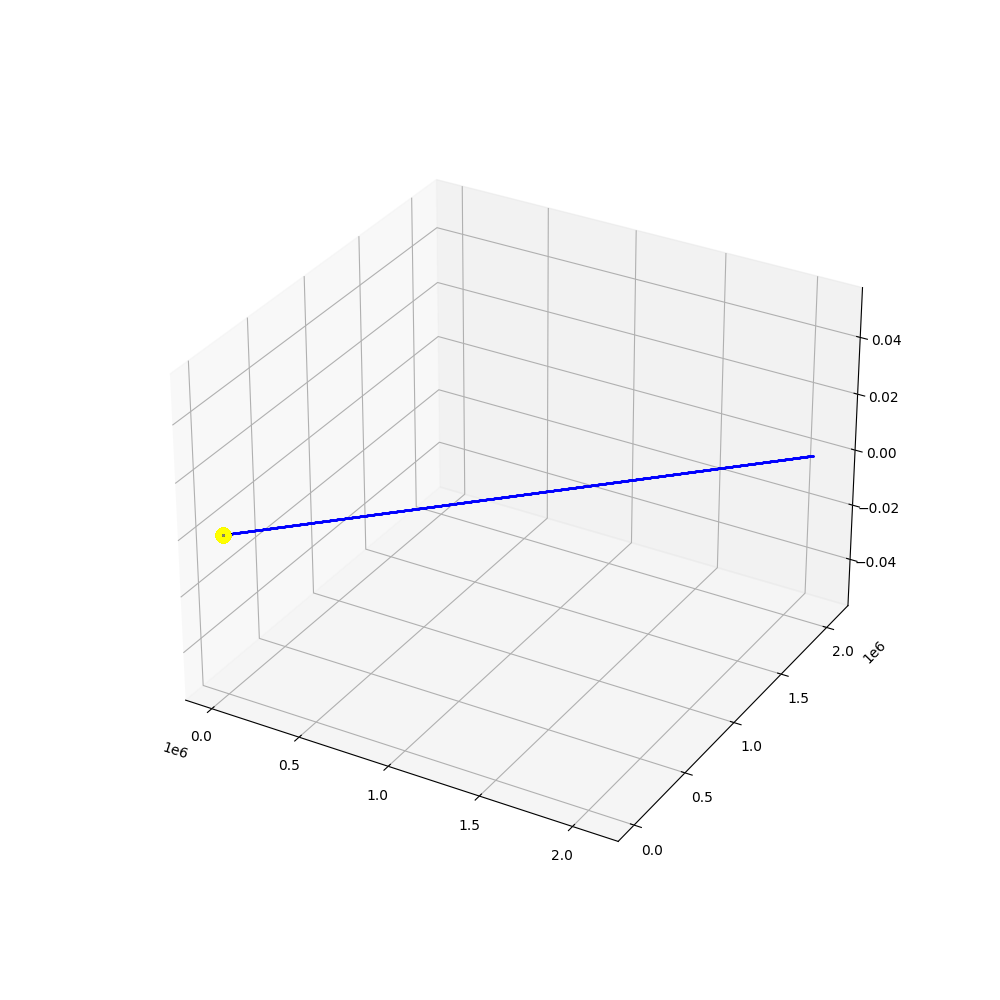
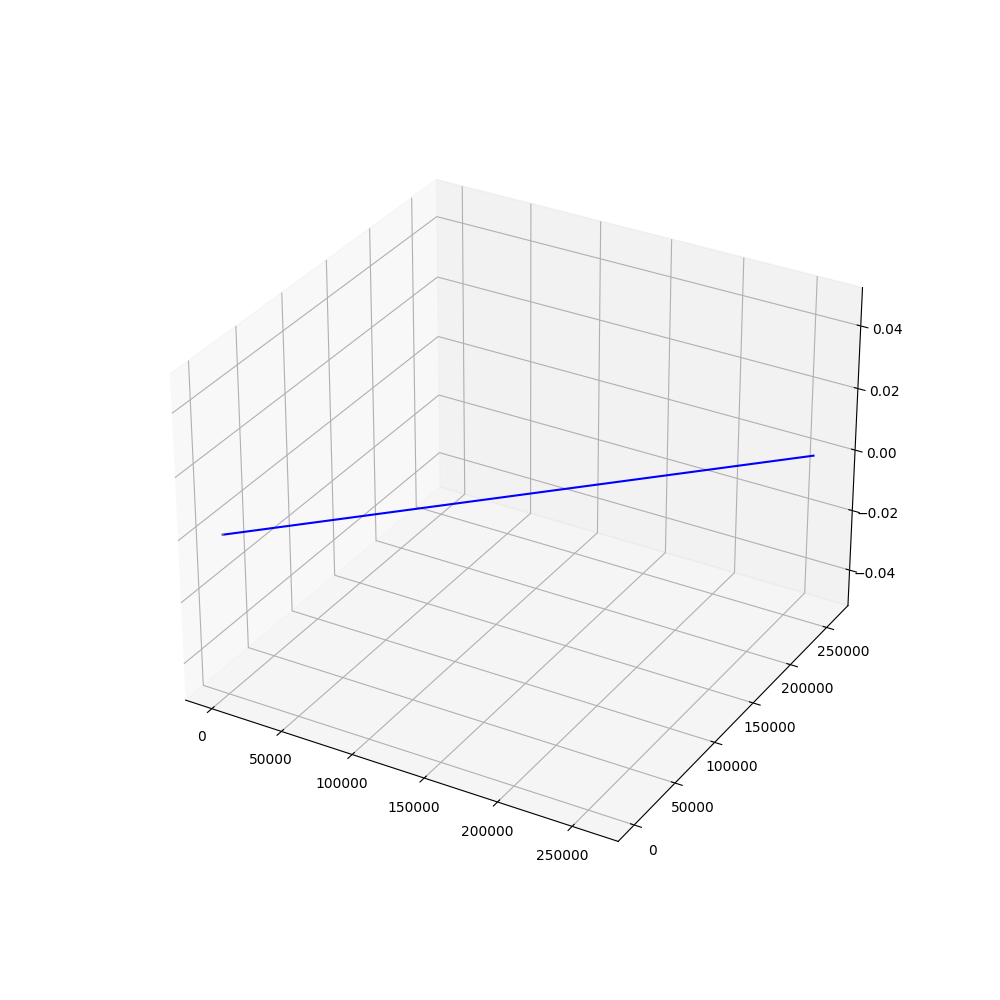
No results, starting tomorrow.

diff --git a/models/system.py b/models/system.py
@@ -1,7 +1,5 @@
 import matplotlib.pyplot as plt
 
-from models.planet import Planet
-
 
 class System:
     planets: list = []
@@ -11,18 +9,8 @@ class System:
     def __init__(self, planets: list, plot_size: tuple = (10, 10)):
         self.planets = planets
 
-        self.fig, self.ax = plt.subplots(
-            1,
-            1,
-            subplot_kw={"projection": "3d"},
-            figsize=plot_size,
-        )
-        self.fig.show()
-
     def step(self, dt: float):
         for planet in self.planets:
-            self.draw_planet(planet)
-
             if planet.fixed:
                 continue
 
@@ -30,50 +18,11 @@ class System:
                 if other is planet:
                     continue
 
-                distance = planet.position.distance(other.position)
+                distance = planet.current_position().distance(other.current_position())
                 force = planet.mass * other.mass / distance ** 2
 
-                direction = (other.position - planet.position) / distance
-
+                direction = (planet.current_position() - other.current_position()) / distance
+        
                 planet.velocity += direction * force / planet.mass * dt
 
-            planet.position += planet.velocity * dt
-
-        # self.draw_system()
-
-    def draw_planet(self, planet: Planet):
-        """
-        Draw a planet in the system
-        :param planet:
-        :return:
-        """
-
-        self.ax.scatter(
-            planet.position.x,
-            planet.position.y,
-            planet.position.z,
-            color=planet.color,
-            s=planet.mass * 100,
-        )
-
-    def draw_system(self):
-        """
-        Draw the system in a 3D plot
-        :return:
-        """
-        #  farthest_planet_distance: float = max(self.planets,
-        #                                      key=lambda planet: planet.position.length()).position.length()
-        # axes_limit = farthest_planet_distance * 1.1
-        # self.ax.set_xlim(-axes_limit, axes_limit)
-        # self.ax.set_ylim(-axes_limit, axes_limit)
-        # self.ax.set_zlim(-axes_limit, axes_limit)
-
-        self.fig.canvas.draw()
-        self.fig.canvas.flush_events()
-
-    def save_system(self, filename: str):
-        """
-        Save the system in a 3D plot
-        :return:
-        """
-        self.fig.savefig(filename)
+            planet.new_position(planet.current_position() + planet.velocity * dt)

diff --git a/main.py b/main.py
@@ -1,4 +1,4 @@
-from math import sqrt
+import matplotlib.pyplot as plt
 
 from models.planet import Planet
 from models.system import System
@@ -16,25 +16,36 @@ system: System = System(
         ),
         Planet(
             "Earth",
-            1,
-            Vector(sqrt(2), sqrt(2), 0),
-            Vector(0.5, -0.5, 0),
+            1 / 2,
+            Vector(2, 1, 0),
+            Vector(0, 1, 0),
             "blue",
-        ),
-        Planet(
-            "Moon",
-            1,
-            Vector(sqrt(2.0001), sqrt(2.0001), 0),
-            Vector(0.5, -0.5, 0),
-            "grey",
         ),
     ],
 )
 
-for i in range(2000):
+for i in range(200000):
     system.step(0.1)
     if i % 100 == 0:
-        print(i)
+        print(f"Step {i}")
 
-system.draw_system()
-system.save_system("test.png")
+fig, ax = plt.subplots(
+    1,
+    1,
+    # subplot_kw=dict(projection="3d"),
+    figsize=(10, 10),
+)
+fig.show()
+
+for planet in system.planets:
+    ax.scatter(
+        [position.x for position in planet.positions],
+        [position.y for position in planet.positions],
+        color=planet.color,
+        s=planet.mass * 10,
+    )
+
+fig.canvas.draw()
+fig.canvas.flush_events()
+fig.show()
+# fig.savefig("test.png")

diff --git a/models/planet.py b/models/planet.py
@@ -4,7 +4,7 @@ from models.vector import Vector
 class Planet:
     name: str
     mass: float
-    position: Vector
+    positions: list
     velocity: Vector
     color: str
 
@@ -13,7 +13,13 @@ class Planet:
     def __init__(self, name: str, mass: float, position: Vector, velocity: Vector, color: str, fixed: bool = False):
         self.name = name
         self.mass = mass
-        self.position = position
+        self.positions = [position]
         self.velocity = velocity
         self.color = color
         self.fixed = fixed
+
+    def current_position(self) -> Vector:
+        return self.positions[-1]
+
+    def new_position(self, position: Vector):
+        self.positions.append(position)
